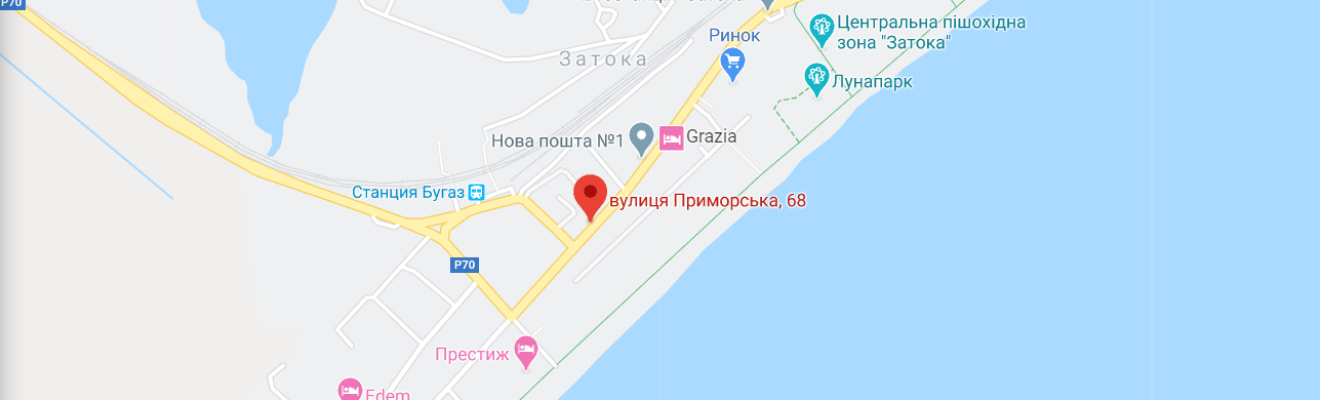
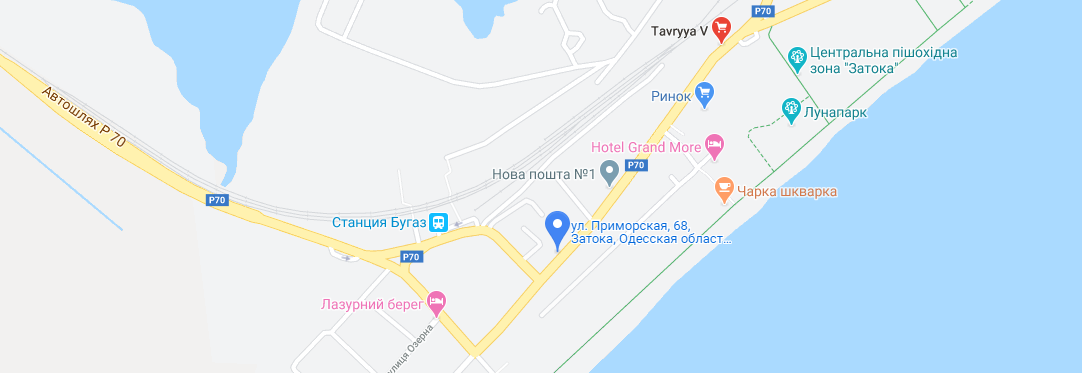
added link to map

diff --git a/index.html b/index.html
@@ -126,9 +126,9 @@
             </div>
         </div>
         <div class="map-container">
-            <div id="map" class="map-img">
+            <a href="https://www.google.com/maps/place/%D1%83%D0%BB.+%D0%9F%D1%80%D0%B8%D0%BC%D0%BE%D1%80%D1%81%D0%BA%D0%B0%D1%8F,+68,+%D0%97%D0%B0%D1%82%D0%BE%D0%BA%D0%B0,+%D0%9E%D0%B4%D0%B5%D1%81%D1%81%D0%BA%D0%B0%D1%8F+%D0%BE%D0%B1%D0%BB%D0%B0%D1%81%D1%82%D1%8C,+67773/@46.0650978,30.4516025,17z/data=!4m5!3m4!1s0x40c7eb380a087ce9:0x3ad74dcc814326b!8m2!3d46.0637281!4d30.4525466" id="map" class="map-img" target="_blank">
                 <img src="img/map.png" alt="map">
-            </div>
+            </a>
         </div>
     </div>
 </section>
